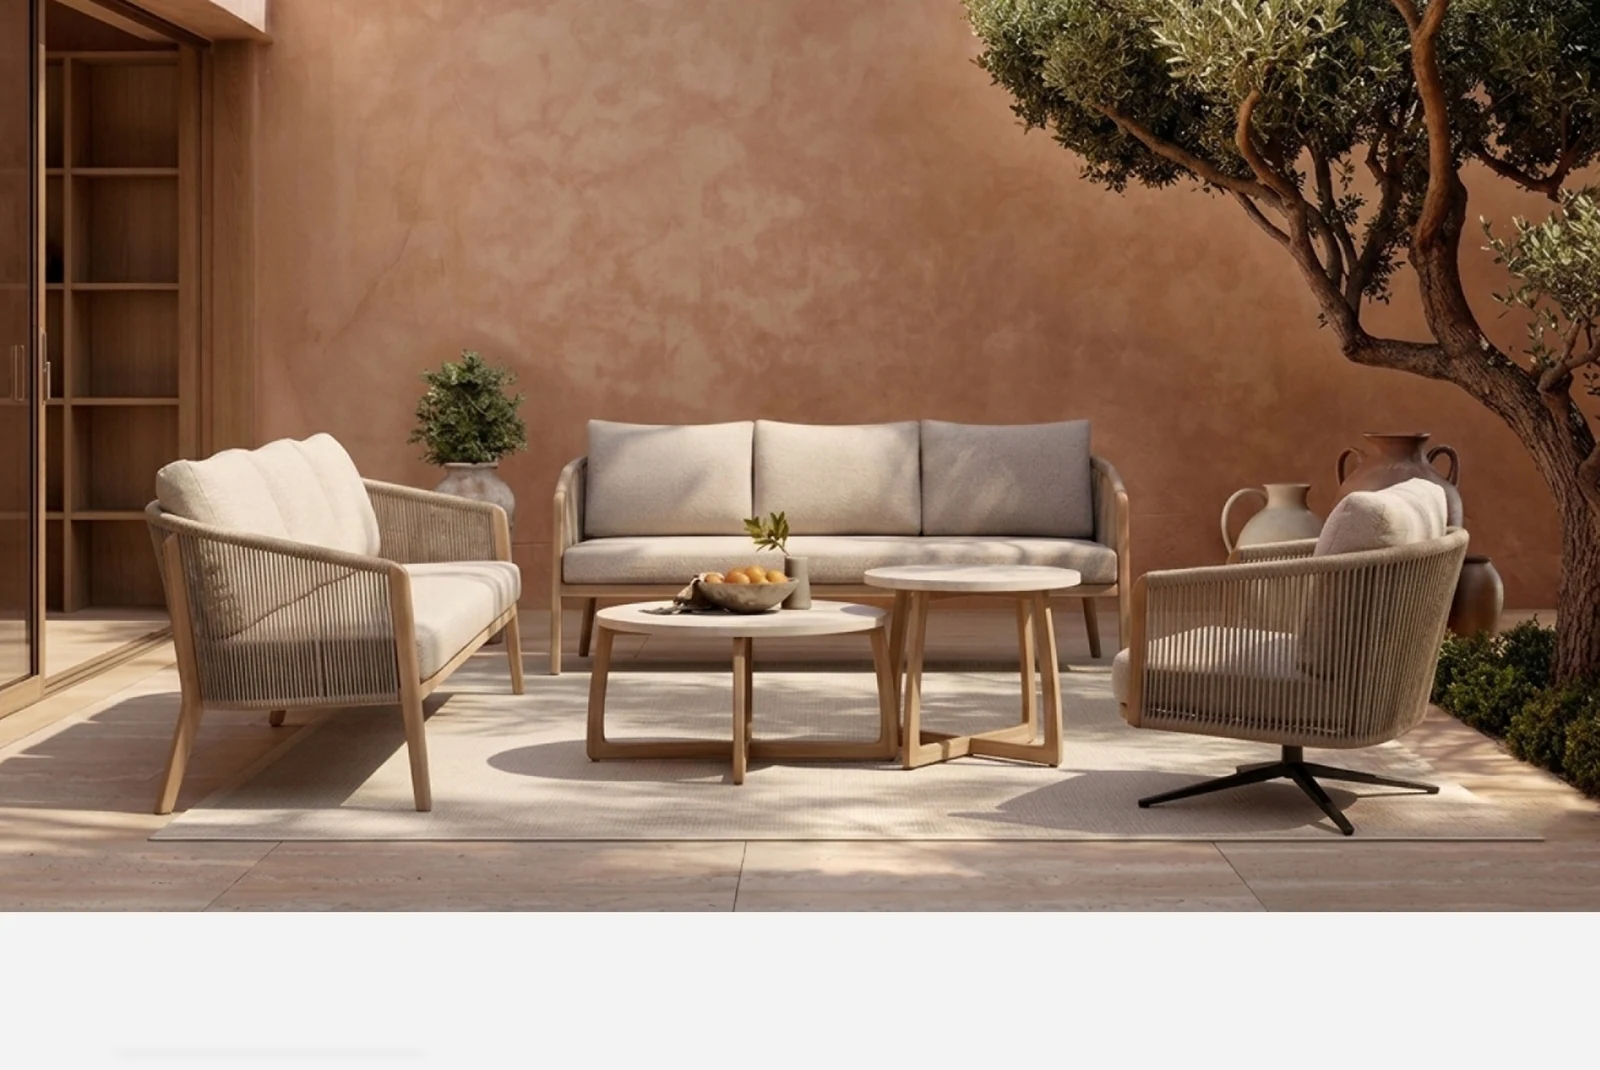
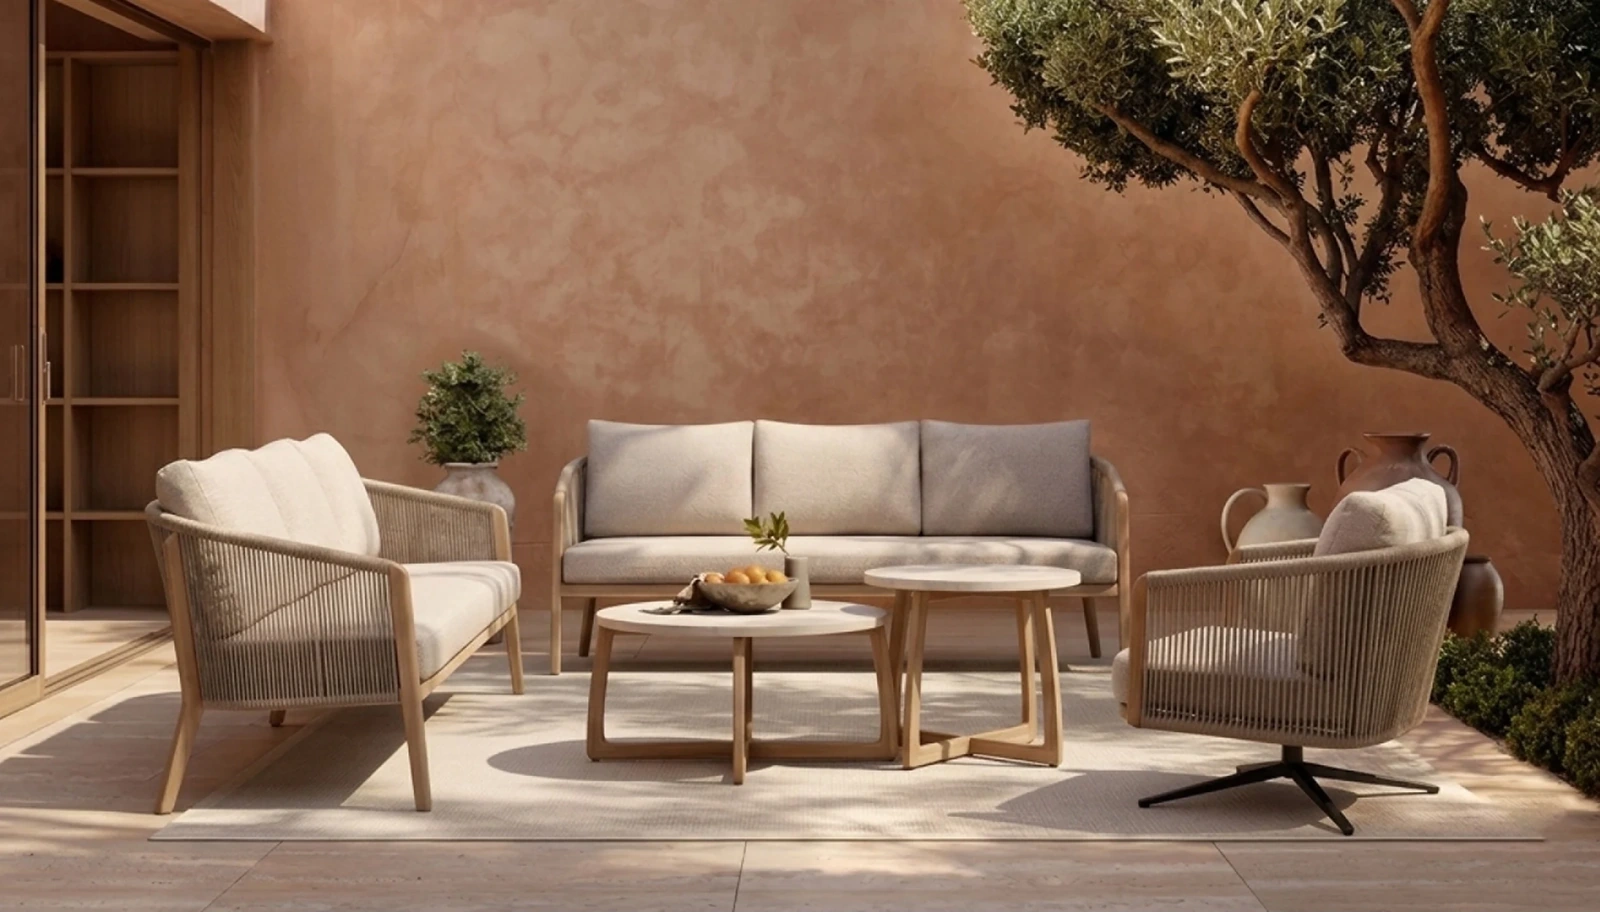
Remove white bands from hero images

diff --git a/index.html b/index.html
@@ -92,19 +92,19 @@
       <!-- KORDIA Signature renders, 2350px native — the highest-resolution
            assets in the project. See IA-PROPOSAL.md §"The narrative spine". -->
       <img class="hero-slide is-active" alt="" fetchpriority="high" decoding="async" sizes="100vw"
-           src="assets/images/hero/hero-sig-1-1600.webp"
-           srcset="assets/images/hero/hero-sig-1-960.webp 960w, assets/images/hero/hero-sig-1-1600.webp 1600w, assets/images/hero/hero-sig-1-2350.webp 2350w">
+           src="assets/images/hero/hero-sig-1-1600.webp?v=20260807-no-white"
+           srcset="assets/images/hero/hero-sig-1-960.webp?v=20260807-no-white 960w, assets/images/hero/hero-sig-1-1600.webp?v=20260807-no-white 1600w, assets/images/hero/hero-sig-1-2350.webp?v=20260807-no-white 2350w">
       <!-- Slides 2-4 are inside the viewport, so loading="lazy" would not defer
            them. app.js hydrates these from data-* once the page is idle. -->
       <img class="hero-slide" alt="" decoding="async" data-sizes="100vw"
-           data-src="assets/images/hero/hero-sig-2-1600.webp"
-           data-srcset="assets/images/hero/hero-sig-2-960.webp 960w, assets/images/hero/hero-sig-2-1600.webp 1600w, assets/images/hero/hero-sig-2-2350.webp 2350w">
+           data-src="assets/images/hero/hero-sig-2-1600.webp?v=20260807-no-white"
+           data-srcset="assets/images/hero/hero-sig-2-960.webp?v=20260807-no-white 960w, assets/images/hero/hero-sig-2-1600.webp?v=20260807-no-white 1600w, assets/images/hero/hero-sig-2-2350.webp?v=20260807-no-white 2350w">
       <img class="hero-slide" alt="" decoding="async" data-sizes="100vw"
-           data-src="assets/images/hero/hero-sig-3-1600.webp"
-           data-srcset="assets/images/hero/hero-sig-3-960.webp 960w, assets/images/hero/hero-sig-3-1600.webp 1600w, assets/images/hero/hero-sig-3-2350.webp 2350w">
+           data-src="assets/images/hero/hero-sig-3-1600.webp?v=20260807-no-white"
+           data-srcset="assets/images/hero/hero-sig-3-960.webp?v=20260807-no-white 960w, assets/images/hero/hero-sig-3-1600.webp?v=20260807-no-white 1600w, assets/images/hero/hero-sig-3-2350.webp?v=20260807-no-white 2350w">
       <img class="hero-slide" alt="" decoding="async" data-sizes="100vw"
-           data-src="assets/images/hero/hero-sig-4-1600.webp"
-           data-srcset="assets/images/hero/hero-sig-4-960.webp 960w, assets/images/hero/hero-sig-4-1600.webp 1600w, assets/images/hero/hero-sig-4-2350.webp 2350w">
+           data-src="assets/images/hero/hero-sig-4-1600.webp?v=20260807-no-white"
+           data-srcset="assets/images/hero/hero-sig-4-960.webp?v=20260807-no-white 960w, assets/images/hero/hero-sig-4-1600.webp?v=20260807-no-white 1600w, assets/images/hero/hero-sig-4-2350.webp?v=20260807-no-white 2350w">
     </div>
     <div class="hero-shade-a"></div>
     <div class="hero-shade-b"></div>
